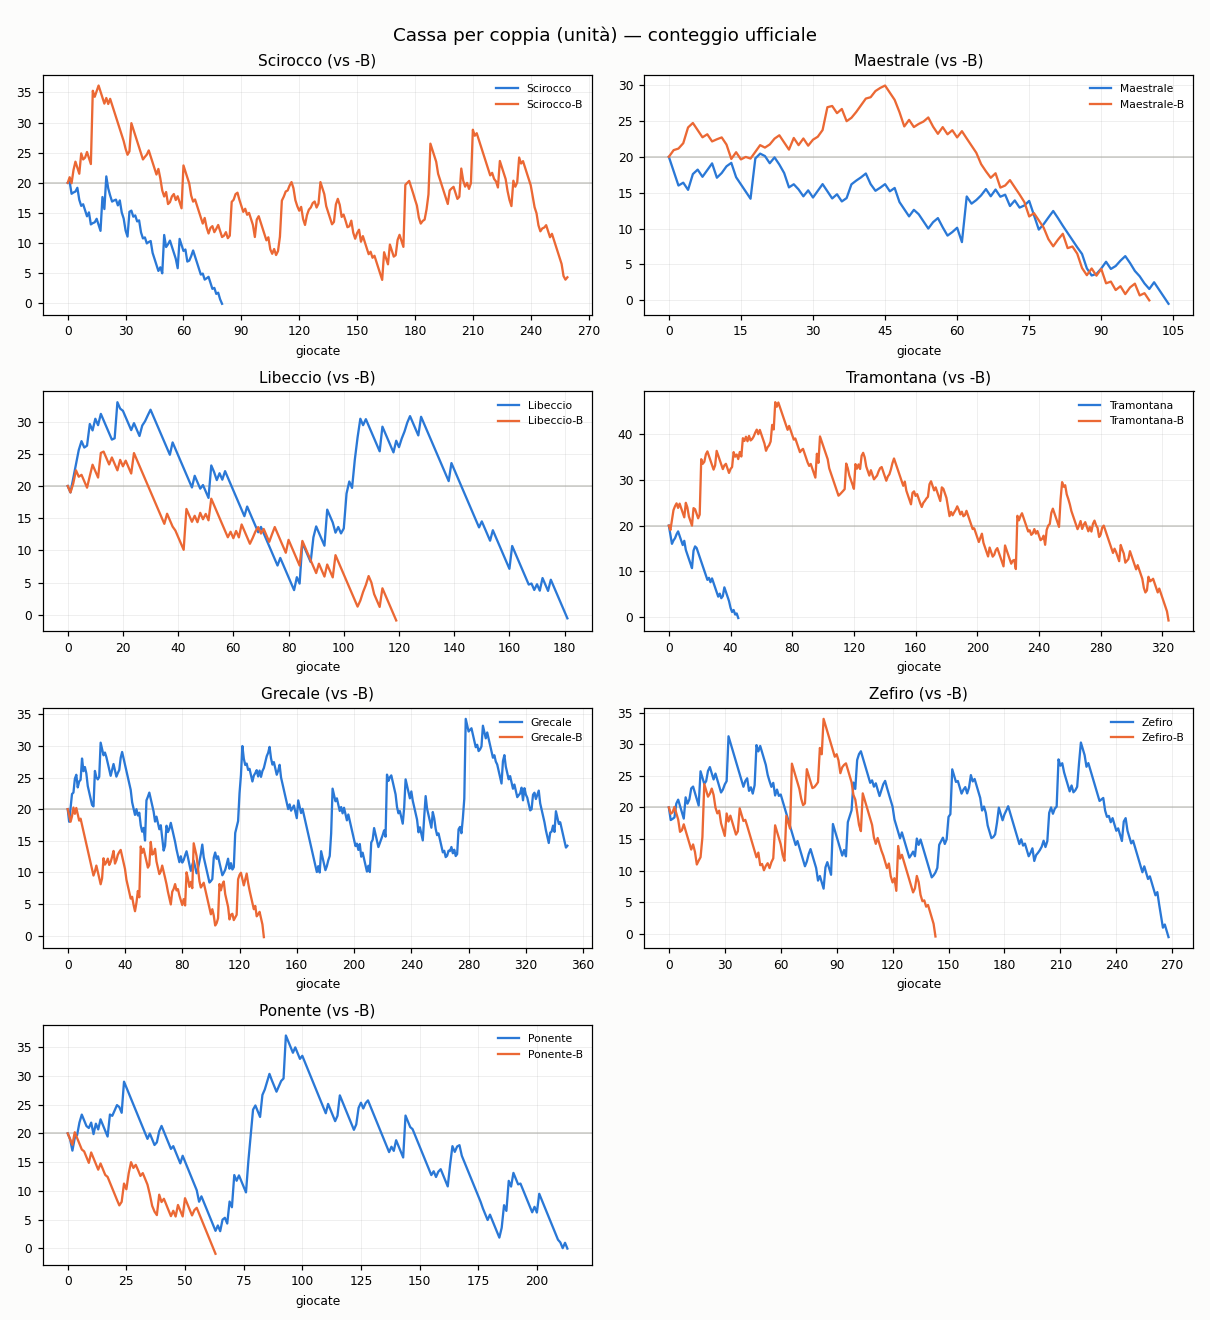
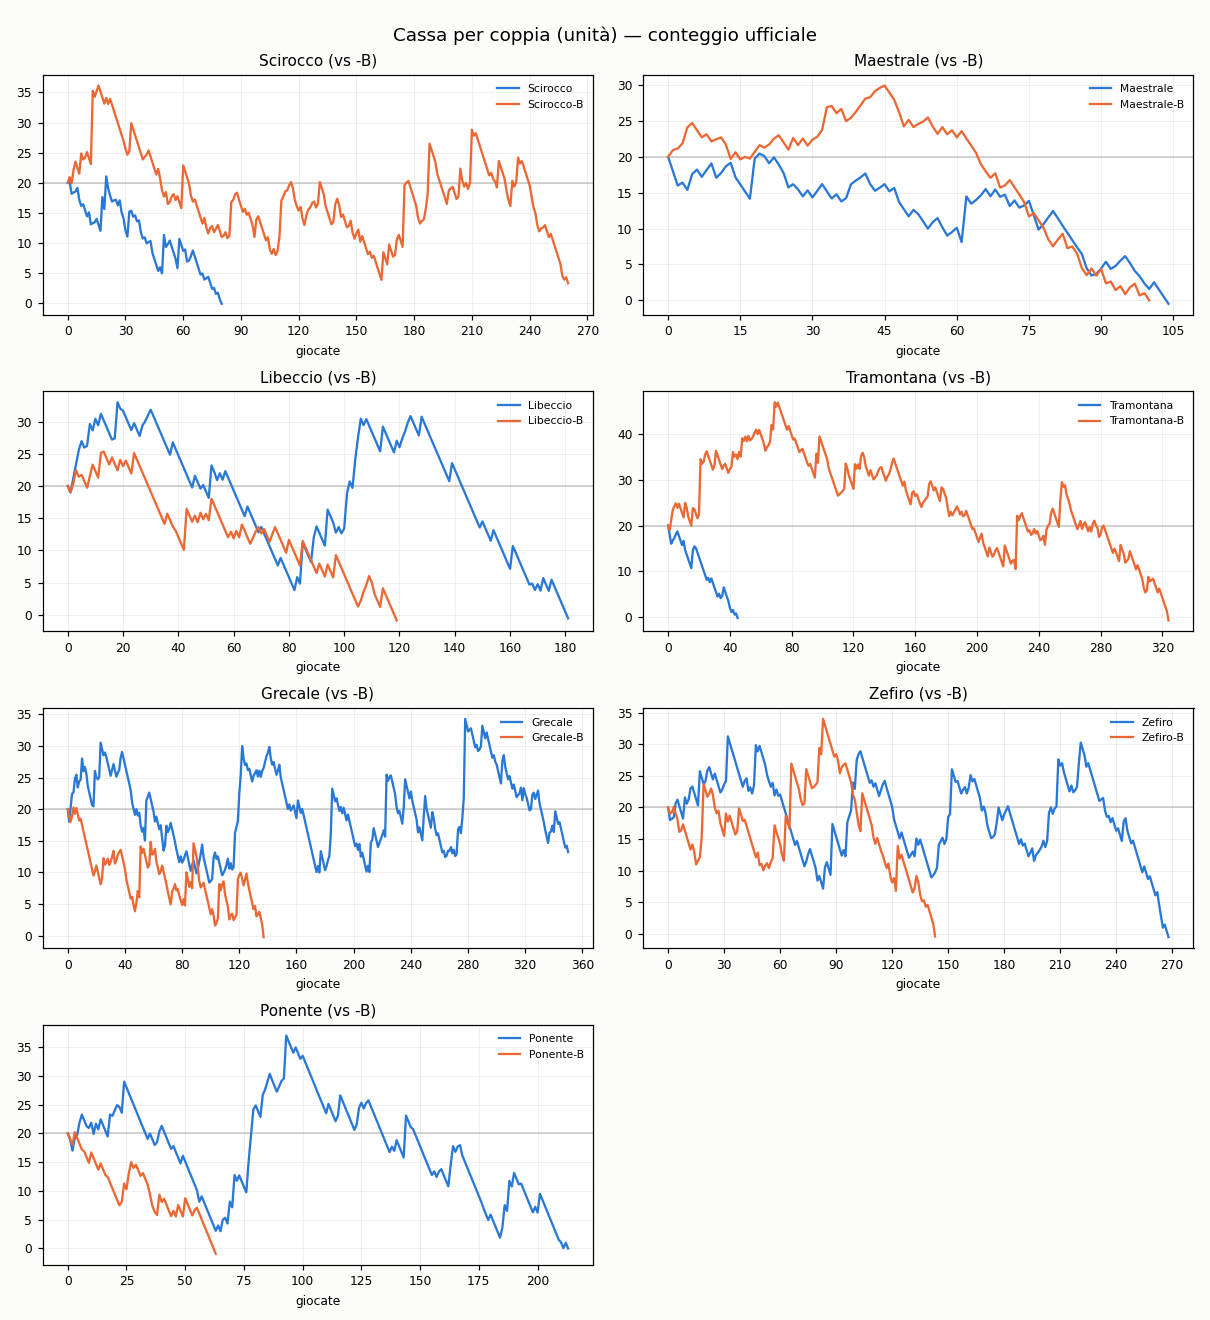
aggiornamento 2026-07-28 18:11 UTC

diff --git a/README.md b/README.md
@@ -37,9 +37,9 @@ scala in unità). Non indichiamo quale.
 
 ## Grafici
 
-![Coppie: dati completi vs ridotti](https://raw.githubusercontent.com/Kitem19/ippica-track-record/main/charts/equity_pairs.png?v=d6b4e832)
+![Coppie: dati completi vs ridotti](https://raw.githubusercontent.com/Kitem19/ippica-track-record/main/charts/equity_pairs.png?v=8dc5389f)
 
-![Delta per coppia](https://raw.githubusercontent.com/Kitem19/ippica-track-record/main/charts/coppie_delta.png?v=2e82b3fd)
+![Delta per coppia](https://raw.githubusercontent.com/Kitem19/ippica-track-record/main/charts/coppie_delta.png?v=48b4dd8e)
 
 ### Come leggere i grafici
 
@@ -56,11 +56,11 @@ scala in unità). Non indichiamo quale.
 
 _Poche giornate: numeri ancora rumorosi, si conclude a fine fase (31/7)._
 
-- **Scirocco**: dati ridotti avanti di 4,4u — qui gli extra non aiutano
+- **Scirocco**: dati ridotti avanti di 3,4u — qui gli extra non aiutano
 - **Maestrale**: in sostanziale pareggio — troppo presto per dire
 - **Libeccio**: in sostanziale pareggio — troppo presto per dire
 - **Tramontana**: in sostanziale pareggio — troppo presto per dire
-- **Grecale**: dati completi avanti di 14,5u
+- **Grecale**: dati completi avanti di 13,5u
 - **Zefiro**: in sostanziale pareggio — troppo presto per dire
 - **Ponente**: in sostanziale pareggio — troppo presto per dire
 
@@ -68,22 +68,22 @@ _Poche giornate: numeri ancora rumorosi, si conclude a fine fase (31/7)._
 
 | Sistema | Cassa (u) | P/L (u) | Selezioni | Escluse | Stato |
 |---|---|---|---|---|---|
-| Grecale | 14,2 | -5,8 | 349 | 4 | 🟢 |
-| Scirocco-B | 4,3 | -15,7 | 259 | 6 | 🟢 |
-| Maestrale-B | 0,0 | -20,0 | 100 | 282 | 🛑 |
-| Ponente | 0,0 | -20,0 | 213 | 55 | 🛑 |
-| Scirocco | 0,0 | -20,1 | 80 | 305 | 🛑 |
-| Grecale-B | 0,0 | -20,2 | 137 | 197 | 🛑 |
-| Tramontana | 0,0 | -20,3 | 45 | 343 | 🛑 |
+| Grecale | 13,2 | -6,8 | 350 | 4 | 🟢 |
+| Scirocco-B | 3,3 | -16,7 | 260 | 6 | 🟢 |
+| Maestrale-B | 0,0 | -20,0 | 100 | 283 | 🛑 |
+| Ponente | 0,0 | -20,0 | 213 | 56 | 🛑 |
+| Scirocco | 0,0 | -20,1 | 80 | 306 | 🛑 |
+| Grecale-B | 0,0 | -20,2 | 137 | 198 | 🛑 |
+| Tramontana | 0,0 | -20,3 | 45 | 344 | 🛑 |
 | Zefiro-B | 0,0 | -20,5 | 143 | 97 | 🛑 |
-| Maestrale | 0,0 | -20,5 | 104 | 301 | 🛑 |
-| Zefiro | 0,0 | -20,6 | 268 | 32 | 🛑 |
-| Libeccio | 0,0 | -20,6 | 181 | 207 | 🛑 |
-| Tramontana-B | 0,0 | -20,8 | 324 | 53 | 🛑 |
-| Libeccio-B | 0,0 | -20,9 | 119 | 218 | 🛑 |
-| Ponente-B | 0,0 | -21,0 | 63 | 114 | 🛑 |
+| Maestrale | 0,0 | -20,5 | 104 | 302 | 🛑 |
+| Zefiro | 0,0 | -20,6 | 268 | 33 | 🛑 |
+| Libeccio | 0,0 | -20,6 | 181 | 208 | 🛑 |
+| Tramontana-B | 0,0 | -20,8 | 324 | 54 | 🛑 |
+| Libeccio-B | 0,0 | -20,9 | 119 | 219 | 🛑 |
+| Ponente-B | 0,0 | -21,0 | 63 | 115 | 🛑 |
 
-_Aggiornato: 28/07 20:06_
+_Aggiornato: 28/07 20:11_
 ---
 *Nessuna delle informazioni qui pubblicate costituisce consiglio di gioco.
 Il gioco può causare dipendenza — 18+.*
